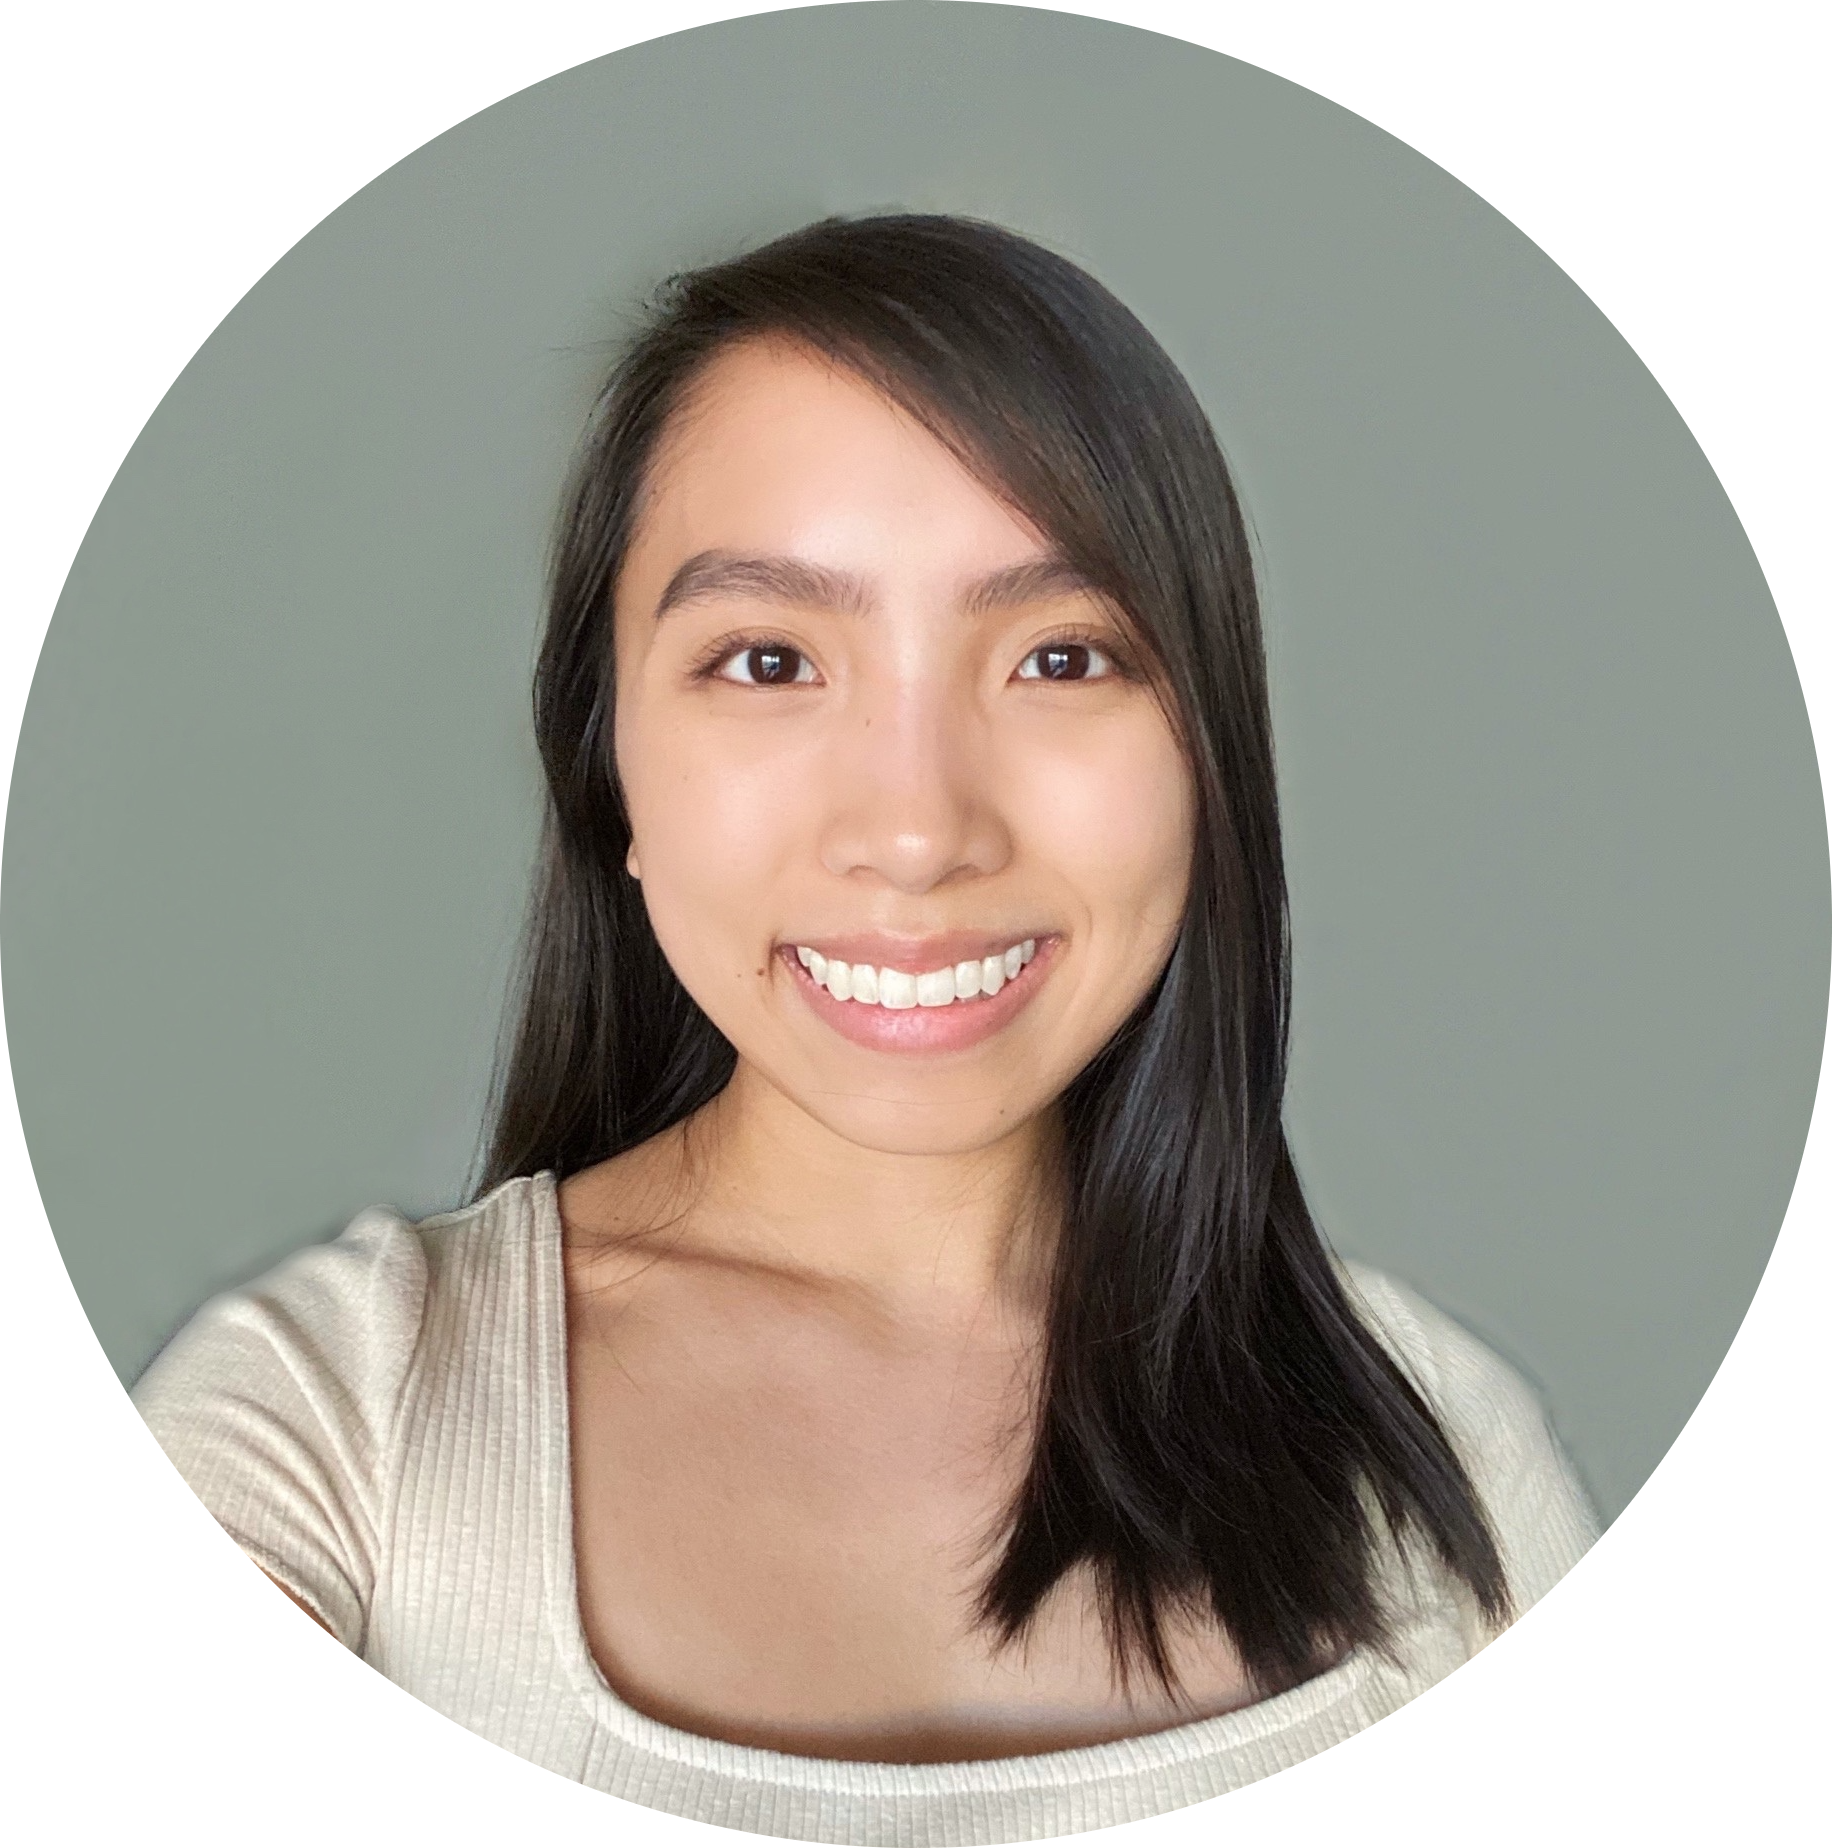
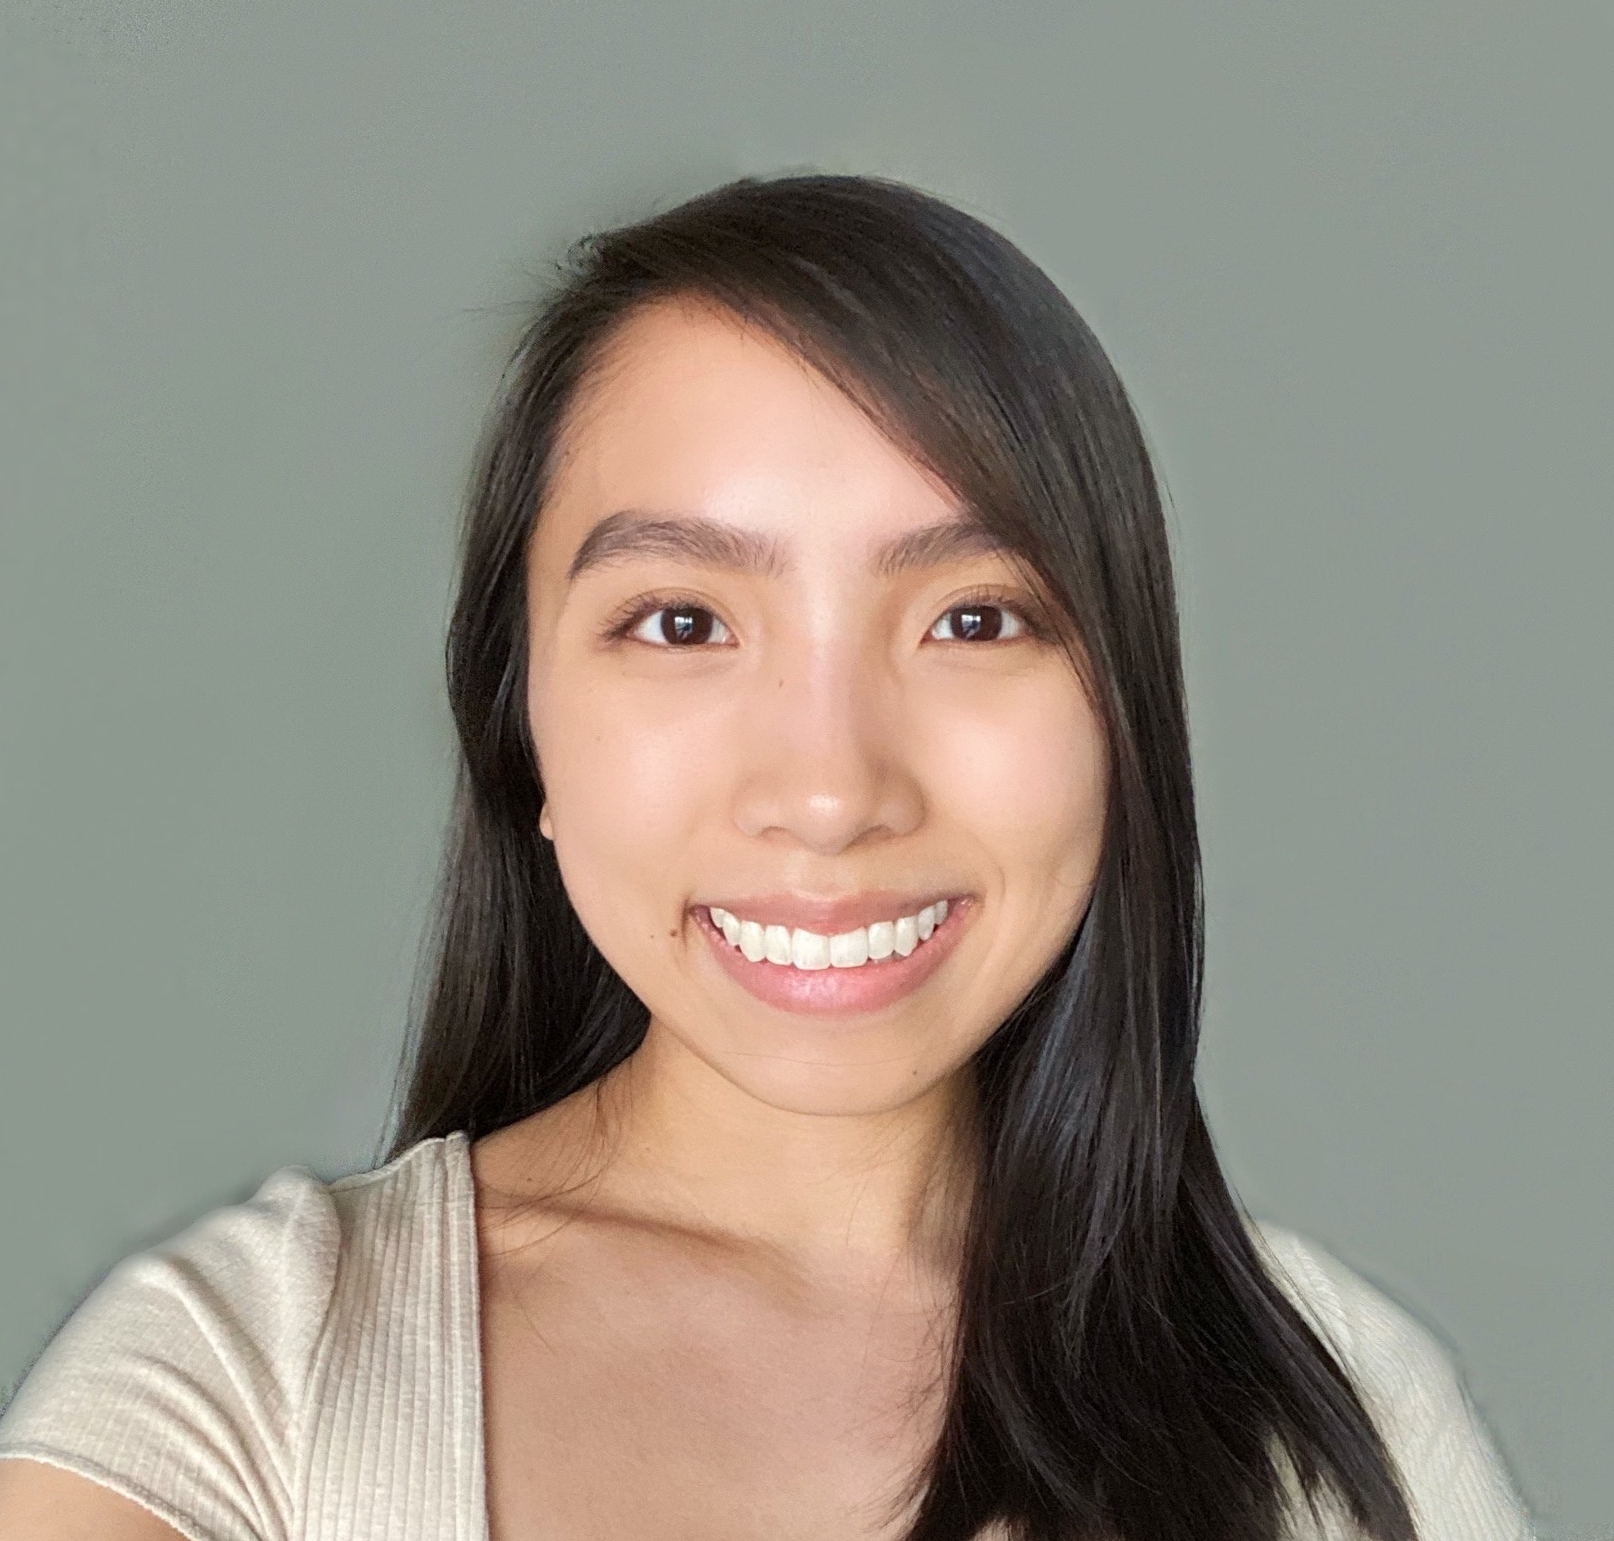
Alter profile image

diff --git a/src/components/AboutMe/index.js b/src/components/AboutMe/index.js
@@ -7,15 +7,23 @@ function AboutMe() {
     <div id='about-me'>
       <div id='portrait-links'>
         <div id='portrait'>
-          <img src={portrait} alt="Headshot of Tran" height='270'/>
+          <img src={portrait} alt="Headshot of Tran Le" height='260' />
         </div>
+        <hr />
         <Contact />
       </div>
       <div id='introduction'>
         <h2>Hi, I'm Tran! &#128105;&#127995;&#8205;&#128187;</h2>
-        <p>Bio Here</p>
+        <p>Bio Here Lorem ipsum dolor sit amet, consectetur adipiscing elit, sed
+          do eiusmod tempor incididunt ut labore et dolore magna aliqua. Ut enim
+          ad minim veniam, quis nostrud exercitation ullamco laboris nisi ut
+          aliquip ex ea commodo consequat. Duis aute irure dolor in reprehenderit
+          in voluptate velit esse cillum dolore eu fugiat nulla pariatur.
+          Excepteur sint occaecat cupidatat non proident, sunt in culpa qui 
+          officia deserunt mollit anim id est laborum  elit, sed do eiusmod 
+          tempor incididunt ut labore et dolore magna aliqua. U</p>
       </div>
-    </div> 
+    </div>
   )
 }
 

diff --git a/src/components/AboutMe/AboutMe.css b/src/components/AboutMe/AboutMe.css
@@ -12,12 +12,22 @@
   display: flex;
   flex-direction: row;
   justify-content: center;
-  background-color: #30383f;
-  border-radius: 10px;
+  /* background-color: #30383f;
+  border-radius: 10px; */
 }
 
 #portrait {
   padding: 20px;
+  /* background-color: #30383f;
+  border-radius: 10px; */
+}
+
+#portrait img {
+  border-radius: 25px;
+}
+
+#portrait-links hr {
+  margin: 0;
 }
 
 #contact-links a {
